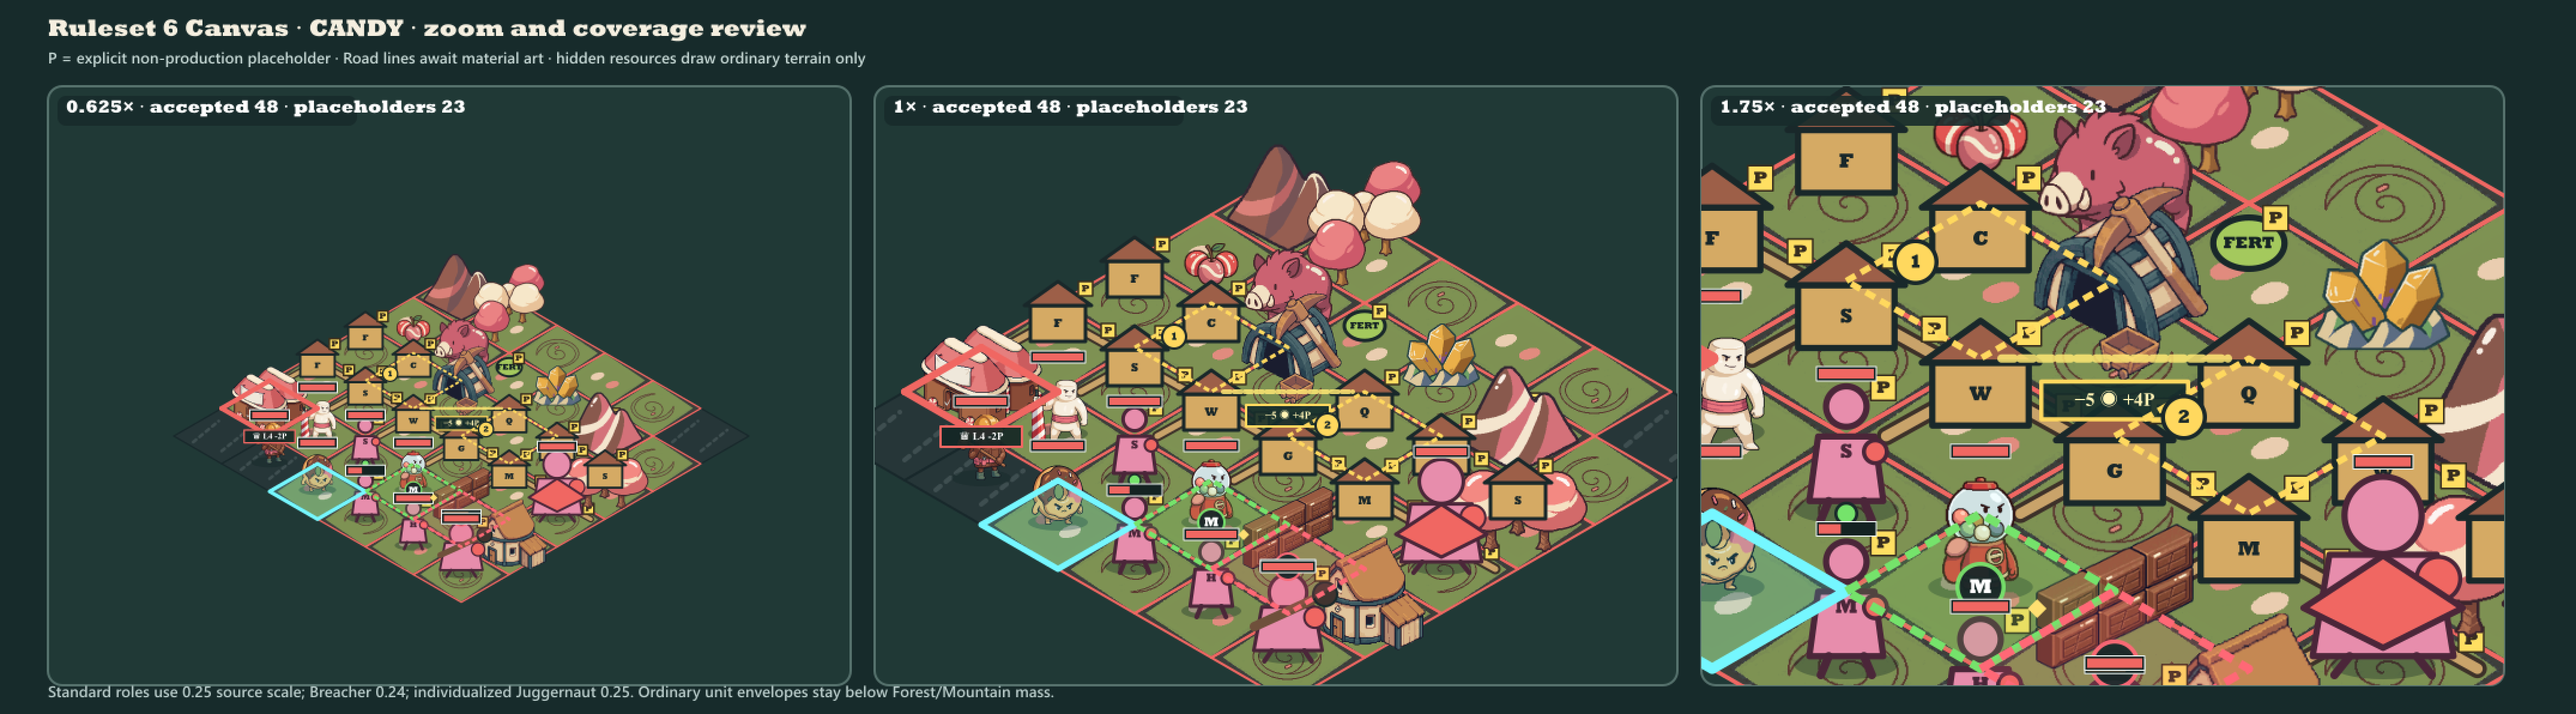
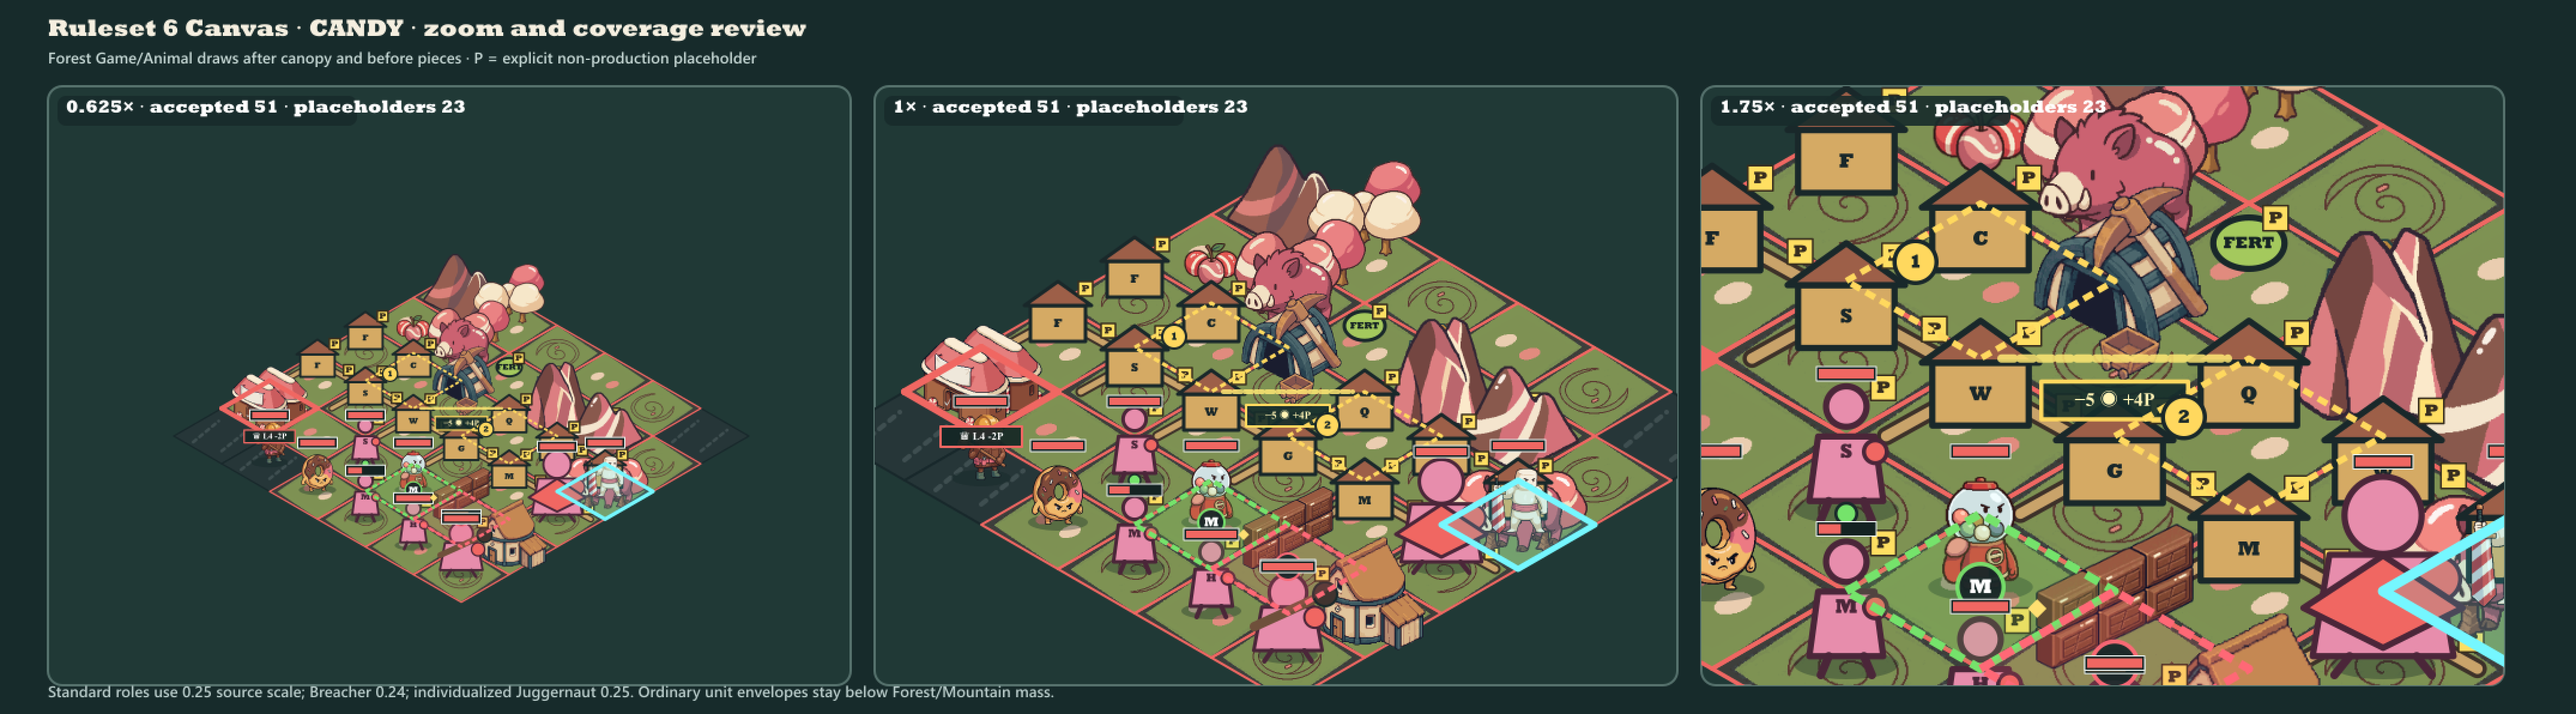
Render forest animals in foreground

diff --git a/scripts/art/ruleset6-renderer-review.ts b/scripts/art/ruleset6-renderer-review.ts
@@ -91,7 +91,7 @@ async function reviewSvg(faction: FactionIdV6): Promise<string> {
     .join("")}</defs>
   <rect width="100%" height="100%" fill="#172b2b"/>
   <text x="40" y="30" font-family="system-ui,sans-serif" font-size="20" font-weight="800" fill="#f5efe0">Ruleset 6 Canvas · ${faction} · zoom and coverage review</text>
-  <text x="40" y="53" font-family="system-ui,sans-serif" font-size="13" font-weight="600" fill="#c5d7d4">P = explicit non-production placeholder · Road lines await material art · hidden resources draw ordinary terrain only</text>
+  <text x="40" y="53" font-family="system-ui,sans-serif" font-size="13" font-weight="600" fill="#c5d7d4">Forest Game/Animal draws after canopy and before pieces · P = explicit non-production placeholder</text>
   ${panels
     .map(
       ({ index, zoom, commands, accepted, placeholders }) => `<g>
@@ -193,14 +193,22 @@ function representativePlan(faction: FactionIdV6): BoardRenderPlanV6 {
   const bodies = [
     [{ x: 0, y: 0 }, "MOUNTAIN"],
     [{ x: 1, y: 0 }, "FOREST"],
+    [{ x: 1, y: 1 }, "FOREST"],
+    [{ x: 3, y: 1 }, "MOUNTAIN"],
     [{ x: 4, y: 1 }, "MOUNTAIN"],
     [{ x: 5, y: 2 }, "FOREST"],
   ] as const;
   for (const [at, terrain] of bodies) add("TERRAIN_BODY", at, { terrain }, 5);
 
   RESOURCE_IDS.forEach((resource, index) =>
-    add("RESOURCE", { x: index, y: 1 }, { resource }, 4),
+    add(
+      "RESOURCE",
+      { x: index, y: 1 },
+      { resource },
+      resource === "GAME" ? 5 : 4,
+    ),
   );
+  add("RESOURCE", { x: 5, y: 2 }, { resource: "GAME" }, 5);
   add("UNKNOWN_RESOURCE", { x: 5, y: 1 }, null, 4);
 
   ECONOMIC_IMPROVEMENT_IDS.forEach((improvement, index) =>
@@ -226,7 +234,7 @@ function representativePlan(faction: FactionIdV6): BoardRenderPlanV6 {
   add("CHOCOLATE_WALL_STATUS", { x: 4, y: 4 }, { hp: 7 }, 8);
 
   const unitCoords = [
-    { x: 1, y: 4 },
+    { x: 5, y: 2 },
     { x: 2, y: 4 },
     { x: 3, y: 4 },
     { x: 1, y: 5 },
@@ -240,7 +248,7 @@ function representativePlan(faction: FactionIdV6): BoardRenderPlanV6 {
     const at = unitCoords[index];
     if (at === undefined) return;
     add("CONTACT_SHADOW", at, null, 5);
-    add("UNIT", at, { faction, role }, 5);
+    add("UNIT", at, { faction, role, readiness: "OPAQUE" }, 5);
     add(
       "UNIT_STATUS",
       at,
@@ -256,7 +264,7 @@ function representativePlan(faction: FactionIdV6): BoardRenderPlanV6 {
     );
   });
 
-  add("SELECTION", { x: 2, y: 5 }, { selectionKind: "UNIT" }, 6, null);
+  add("SELECTION", { x: 5, y: 2 }, { selectionKind: "UNIT" }, 6, null);
   for (const edge of [
     "NORTH_WEST",
     "NORTH_EAST",
@@ -413,11 +421,12 @@ async function writeEvidence(): Promise<void> {
           "all nine role silhouettes with ordinary units smaller than Forest and Mountain",
           "temporary Road mask with missing-material marker, economic contributor numbers, opposite-pair axis and value chip",
           "selection, move/attack targets, unit/city/wall status and fog",
+          "Forest Game/Animal frontage without a unit and beneath an occupied selected unit",
         ],
         visualReview: {
           status: "ACCEPTED",
           notes:
-            "Native and enlarged sheets were inspected individually. Standard units remain compact; Breacher and Juggernaut exceptions stay bounded. P markers identify missing Road material and other asset gaps without competing with map state; technology-hidden resources add no marker; economy/Road/status/fog layers remain distinct at every zoom and DPR.",
+            "Native and enlarged sheets were inspected individually. Game/Animal remains visible in front of each Forest canopy, including beneath a selected occupied tile, at 0.625x, 1x, and 1.75x for DPR1/2. Fruit, Ore, Stone, units, selection, status, fog, and other economy layers retain their established order.",
         },
         artifacts: records,
       },
@@ -430,6 +439,6 @@ async function writeEvidence(): Promise<void> {
 async function writeReadme(): Promise<void> {
   await writeFile(
     path.join(reviewRoot, "README.md"),
-    `# Ruleset-6 Canvas renderer review\n\nGenerated deterministically with \`npm run art:ruleset6-renderer-review\`. The eight sheets cover Original and Candy at 0.625x, 1x, and 1.75x for DPR1 and DPR2, each at native backing resolution and nearest-neighbor 2x inspection scale.\n\nA yellow \`P\` is the renderer's explicit non-production marker. It appears only where the coverage contract says production art is missing. Road lines are a deterministic temporary connectivity mask and carry \`P\` until the required PixelLab material input is accepted. Technology-hidden resources intentionally add no world marker: explored ordinary terrain is the complete visual. Accepted, semantically identical existing rasters are embedded from checked-in files; fog, ownership, targets, economic contributors and statuses remain intentionally code-native.\n`,
+    `# Ruleset-6 Canvas renderer review\n\nGenerated deterministically with \`npm run art:ruleset6-renderer-review\`. The eight sheets cover Original and Candy at 0.625x, 1x, and 1.75x for DPR1 and DPR2, each at native backing resolution and nearest-neighbor 2x inspection scale.\n\nThe resource row includes an unoccupied Forest Game/Animal tile, and the right-side Forest includes Game beneath a selected unit. These prove canopy → Animal → unit → interaction/status ordering without changing shared anchors. A yellow \`P\` is the renderer's explicit non-production marker. It appears only where the coverage contract says production art is missing. Road lines are a deterministic temporary connectivity mask and carry \`P\` until the required PixelLab material input is accepted. Technology-hidden resources intentionally add no world marker: explored ordinary terrain is the complete visual. Accepted, semantically identical existing rasters are embedded from checked-in files; fog, ownership, targets, economic contributors and statuses remain intentionally code-native.\n`,
   );
 }

diff --git a/tests/unit/board-renderer-v6.test.ts b/tests/unit/board-renderer-v6.test.ts
@@ -182,6 +182,104 @@ describe("ruleset-6 Canvas drawing layer", () => {
     ).toEqual([]);
   });
 
+  it.each([0.625, 1, 1.75] as const)(
+    "keeps Forest Game frontage anchored and ordered through units and overlays at %sx zoom and DPR1/2",
+    (zoom) => {
+      const at = { x: 3, y: 3 } as const;
+      const plan: BoardRenderPlanV6 = {
+        planVersion: 6,
+        entries: [
+          fixtureEntry("TERRAIN", at, { terrain: "FOREST" }, 1),
+          fixtureEntry("CONTACT_SHADOW", at, null, 5),
+          fixtureEntry("TERRAIN_BODY", at, { terrain: "FOREST" }, 5),
+          fixtureEntry("RESOURCE", at, { resource: "GAME" }, 5),
+          fixtureEntry(
+            "UNIT",
+            at,
+            {
+              faction: "ORIGINAL",
+              role: "FIGHTER",
+              readiness: "OPAQUE",
+            },
+            5,
+          ),
+          fixtureEntry("SELECTION", at, { selectionKind: "UNIT" }, 6),
+          fixtureEntry(
+            "ATTACK_TARGET",
+            at,
+            { command: { kind: "WAIT", unitId: 20 } },
+            7,
+          ),
+          fixtureEntry(
+            "UNIT_STATUS",
+            at,
+            {
+              role: "FIGHTER",
+              faction: "ORIGINAL",
+              hp: 10,
+              maxHp: 10,
+              state: "NEEDS_ACTION",
+              veteran: false,
+            },
+            8,
+          ),
+        ],
+        legalCommands: [],
+        commandTargets: [],
+        economicPreview: null,
+      };
+
+      for (const devicePixelRatio of [1, 2] as const) {
+        const context = drawingContext();
+        const list = drawBoardV6({
+          context,
+          viewport: { width: 800, height: 600 },
+          camera: { offsetX: 400, offsetY: 180, zoom },
+          plan,
+          devicePixelRatio,
+        });
+        expect(context.setTransform).toHaveBeenCalledWith(
+          devicePixelRatio,
+          0,
+          0,
+          devicePixelRatio,
+          0,
+          0,
+        );
+        const imageCommands = list.commands.filter(
+          (command) => command.kind === "IMAGE",
+        );
+        expect(imageCommands.map((command) => command.entryKey)).toEqual([
+          "TERRAIN:3,3",
+          "TERRAIN_BODY:3,3",
+          "RESOURCE:3,3",
+          "UNIT:3,3",
+        ]);
+        const forest = imageCommands[1];
+        const game = imageCommands[2];
+        expect(forest?.kind).toBe("IMAGE");
+        expect(game?.kind).toBe("IMAGE");
+        if (forest?.kind !== "IMAGE" || game?.kind !== "IMAGE") {
+          throw new Error("Missing Forest/Game image commands");
+        }
+        expect(game.destination).toEqual(forest.destination);
+        const commandKeys = list.commands.map((command) => command.entryKey);
+        expect(commandKeys.indexOf("RESOURCE:3,3")).toBeLessThan(
+          commandKeys.indexOf("UNIT:3,3"),
+        );
+        expect(commandKeys.indexOf("UNIT:3,3")).toBeLessThan(
+          commandKeys.indexOf("SELECTION:3,3"),
+        );
+        expect(commandKeys.indexOf("SELECTION:3,3")).toBeLessThan(
+          commandKeys.indexOf("ATTACK_TARGET:3,3"),
+        );
+        expect(commandKeys.indexOf("ATTACK_TARGET:3,3")).toBeLessThan(
+          commandKeys.indexOf("UNIT_STATUS:3,3"),
+        );
+      }
+    },
+  );
+
   it("applies the exact pulse opacity only to ready unit sprites and their fallbacks", () => {
     const plan = exhaustivePlan();
     const unit = plan.entries.find((entry) => entry.kind === "UNIT");
@@ -362,6 +460,7 @@ describe("ruleset-6 Canvas drawing layer", () => {
       readonly zooms: readonly number[];
       readonly devicePixelRatios: readonly number[];
       readonly scaleContracts: Readonly<Record<string, number>>;
+      readonly reviewCoverage: readonly string[];
       readonly visualReview: { readonly status: string };
       readonly artifacts: readonly {
         readonly path: string;
@@ -377,6 +476,9 @@ describe("ruleset-6 Canvas drawing layer", () => {
       breacher: 0.24,
       juggernaut: 0.25,
     });
+    expect(evidence.reviewCoverage).toContain(
+      "Forest Game/Animal frontage without a unit and beneath an occupied selected unit",
+    );
     expect(evidence.visualReview.status).toBe("ACCEPTED");
     expect(evidence.artifacts).toHaveLength(8);
     expect(evidence.artifacts.map(({ path }) => path).sort()).toEqual(

diff --git a/tests/unit/render-plan-v6.test.ts b/tests/unit/render-plan-v6.test.ts
@@ -621,6 +621,70 @@ describe("ruleset-6 observation-safe render plan", () => {
     ).toMatchObject({ id: unitId(777), ownerId: OWN, at });
   });
 
+  it("sorts Forest Game frontage after its canopy and before units without moving other resources", () => {
+    const gameAt = { x: 4, y: 4 } as const;
+    let view = replaceTile(baseView(), gameAt, {
+      terrain: "FOREST",
+      resource: "GAME",
+    });
+    for (const [index, resource] of RESOURCE_IDS.filter(
+      (candidate) => candidate !== "GAME",
+    ).entries()) {
+      view = replaceTile(
+        view,
+        { x: index + 5, y: 3 },
+        {
+          terrain: terrainForResource(resource),
+          resource,
+        },
+      );
+    }
+    view = {
+      ...view,
+      units: [unit(778, OWN, "SCOUT", gameAt)],
+    };
+
+    const plan = buildRenderPlanV6(inactive(view), {
+      ...EMPTY_BOARD_RENDER_INTERACTION_V6,
+      selection: { kind: "UNIT", unitId: unitId(778) },
+    });
+    const gameStack = plan.entries.filter(
+      (entry) => entry.layer === 5 && same(entry.at, gameAt),
+    );
+    expect(gameStack.map((entry) => entry.kind)).toEqual([
+      "CONTACT_SHADOW",
+      "TERRAIN_BODY",
+      "RESOURCE",
+      "UNIT",
+    ]);
+    expect(gameStack.find((entry) => entry.kind === "RESOURCE")).toMatchObject({
+      at: gameAt,
+      layer: 5,
+      details: { resource: "GAME" },
+    });
+    expect(
+      plan.entries.find(
+        (entry) => entry.kind === "SELECTION" && same(entry.at, gameAt),
+      )?.layer,
+    ).toBe(6);
+    expect(
+      plan.entries.find(
+        (entry) => entry.kind === "UNIT_STATUS" && same(entry.at, gameAt),
+      )?.layer,
+    ).toBe(8);
+    expect(
+      entriesOf(plan.entries, "RESOURCE")
+        .filter((entry) => entry.details.resource !== "GAME")
+        .map((entry) => [entry.details.resource, entry.layer]),
+    ).toEqual(
+      expect.arrayContaining(
+        RESOURCE_IDS.filter((resource) => resource !== "GAME").map(
+          (resource) => [resource, 4],
+        ),
+      ),
+    );
+  });
+
   it("keeps the public planner typed to PlayerViewV6 and leaves the historical v5 planner separate", () => {
     expectTypeOf(buildRenderPlanV6).parameter(0).toEqualTypeOf<PlayerViewV6>();
     expectTypeOf<GameStateV6>().not.toMatchTypeOf<PlayerViewV6>();

diff --git a/src/render/canvas/render-plan-v6.ts b/src/render/canvas/render-plan-v6.ts
@@ -262,6 +262,7 @@ const LAYER_V6: Readonly<Record<RenderEntryKindV6, number>> = {
 const BODY_TIE_V6: Readonly<Partial<Record<RenderEntryKindV6, number>>> = {
   CONTACT_SHADOW: 0,
   TERRAIN_BODY: 10,
+  RESOURCE: 15,
   IMPROVEMENT: 20,
   SITE: 25,
   CHOCOLATE_WALL: 30,
@@ -892,9 +893,27 @@ function entryV6<Kind extends RenderEntryKindV6>(
     id,
     ownerId,
     variant,
-    layer: LAYER_V6[kind],
+    layer: semanticLayerV6(kind, details),
     details,
   } as Extract<RenderPlanEntryV6, { readonly kind: Kind }>;
+}
+
+/**
+ * Game is the one resource whose visual contract is frontage on a tall terrain
+ * body. It therefore shares ground-anchor depth sorting with Forest, while all
+ * other resources remain in the low-object layer.
+ */
+function semanticLayerV6<Kind extends RenderEntryKindV6>(
+  kind: Kind,
+  details: RenderEntryDetailsV6[Kind],
+): number {
+  if (
+    kind === "RESOURCE" &&
+    (details as RenderEntryDetailsV6["RESOURCE"]).resource === "GAME"
+  ) {
+    return LAYER_V6.TERRAIN_BODY;
+  }
+  return LAYER_V6[kind];
 }
 
 function stableDetailsKeyV6(value: unknown): string {

diff --git a/art/pixellab/reviews/ruleset6-canvas-renderer/README.md b/art/pixellab/reviews/ruleset6-canvas-renderer/README.md
@@ -2,4 +2,4 @@
 
 Generated deterministically with `npm run art:ruleset6-renderer-review`. The eight sheets cover Original and Candy at 0.625x, 1x, and 1.75x for DPR1 and DPR2, each at native backing resolution and nearest-neighbor 2x inspection scale.
 
-A yellow `P` is the renderer's explicit non-production marker. It appears only where the coverage contract says production art is missing. Road lines are a deterministic temporary connectivity mask and carry `P` until the required PixelLab material input is accepted. Technology-hidden resources intentionally add no world marker: explored ordinary terrain is the complete visual. Accepted, semantically identical existing rasters are embedded from checked-in files; fog, ownership, targets, economic contributors and statuses remain intentionally code-native.
+The resource row includes an unoccupied Forest Game/Animal tile, and the right-side Forest includes Game beneath a selected unit. These prove canopy → Animal → unit → interaction/status ordering without changing shared anchors. A yellow `P` is the renderer's explicit non-production marker. It appears only where the coverage contract says production art is missing. Road lines are a deterministic temporary connectivity mask and carry `P` until the required PixelLab material input is accepted. Technology-hidden resources intentionally add no world marker: explored ordinary terrain is the complete visual. Accepted, semantically identical existing rasters are embedded from checked-in files; fog, ownership, targets, economic contributors and statuses remain intentionally code-native.
